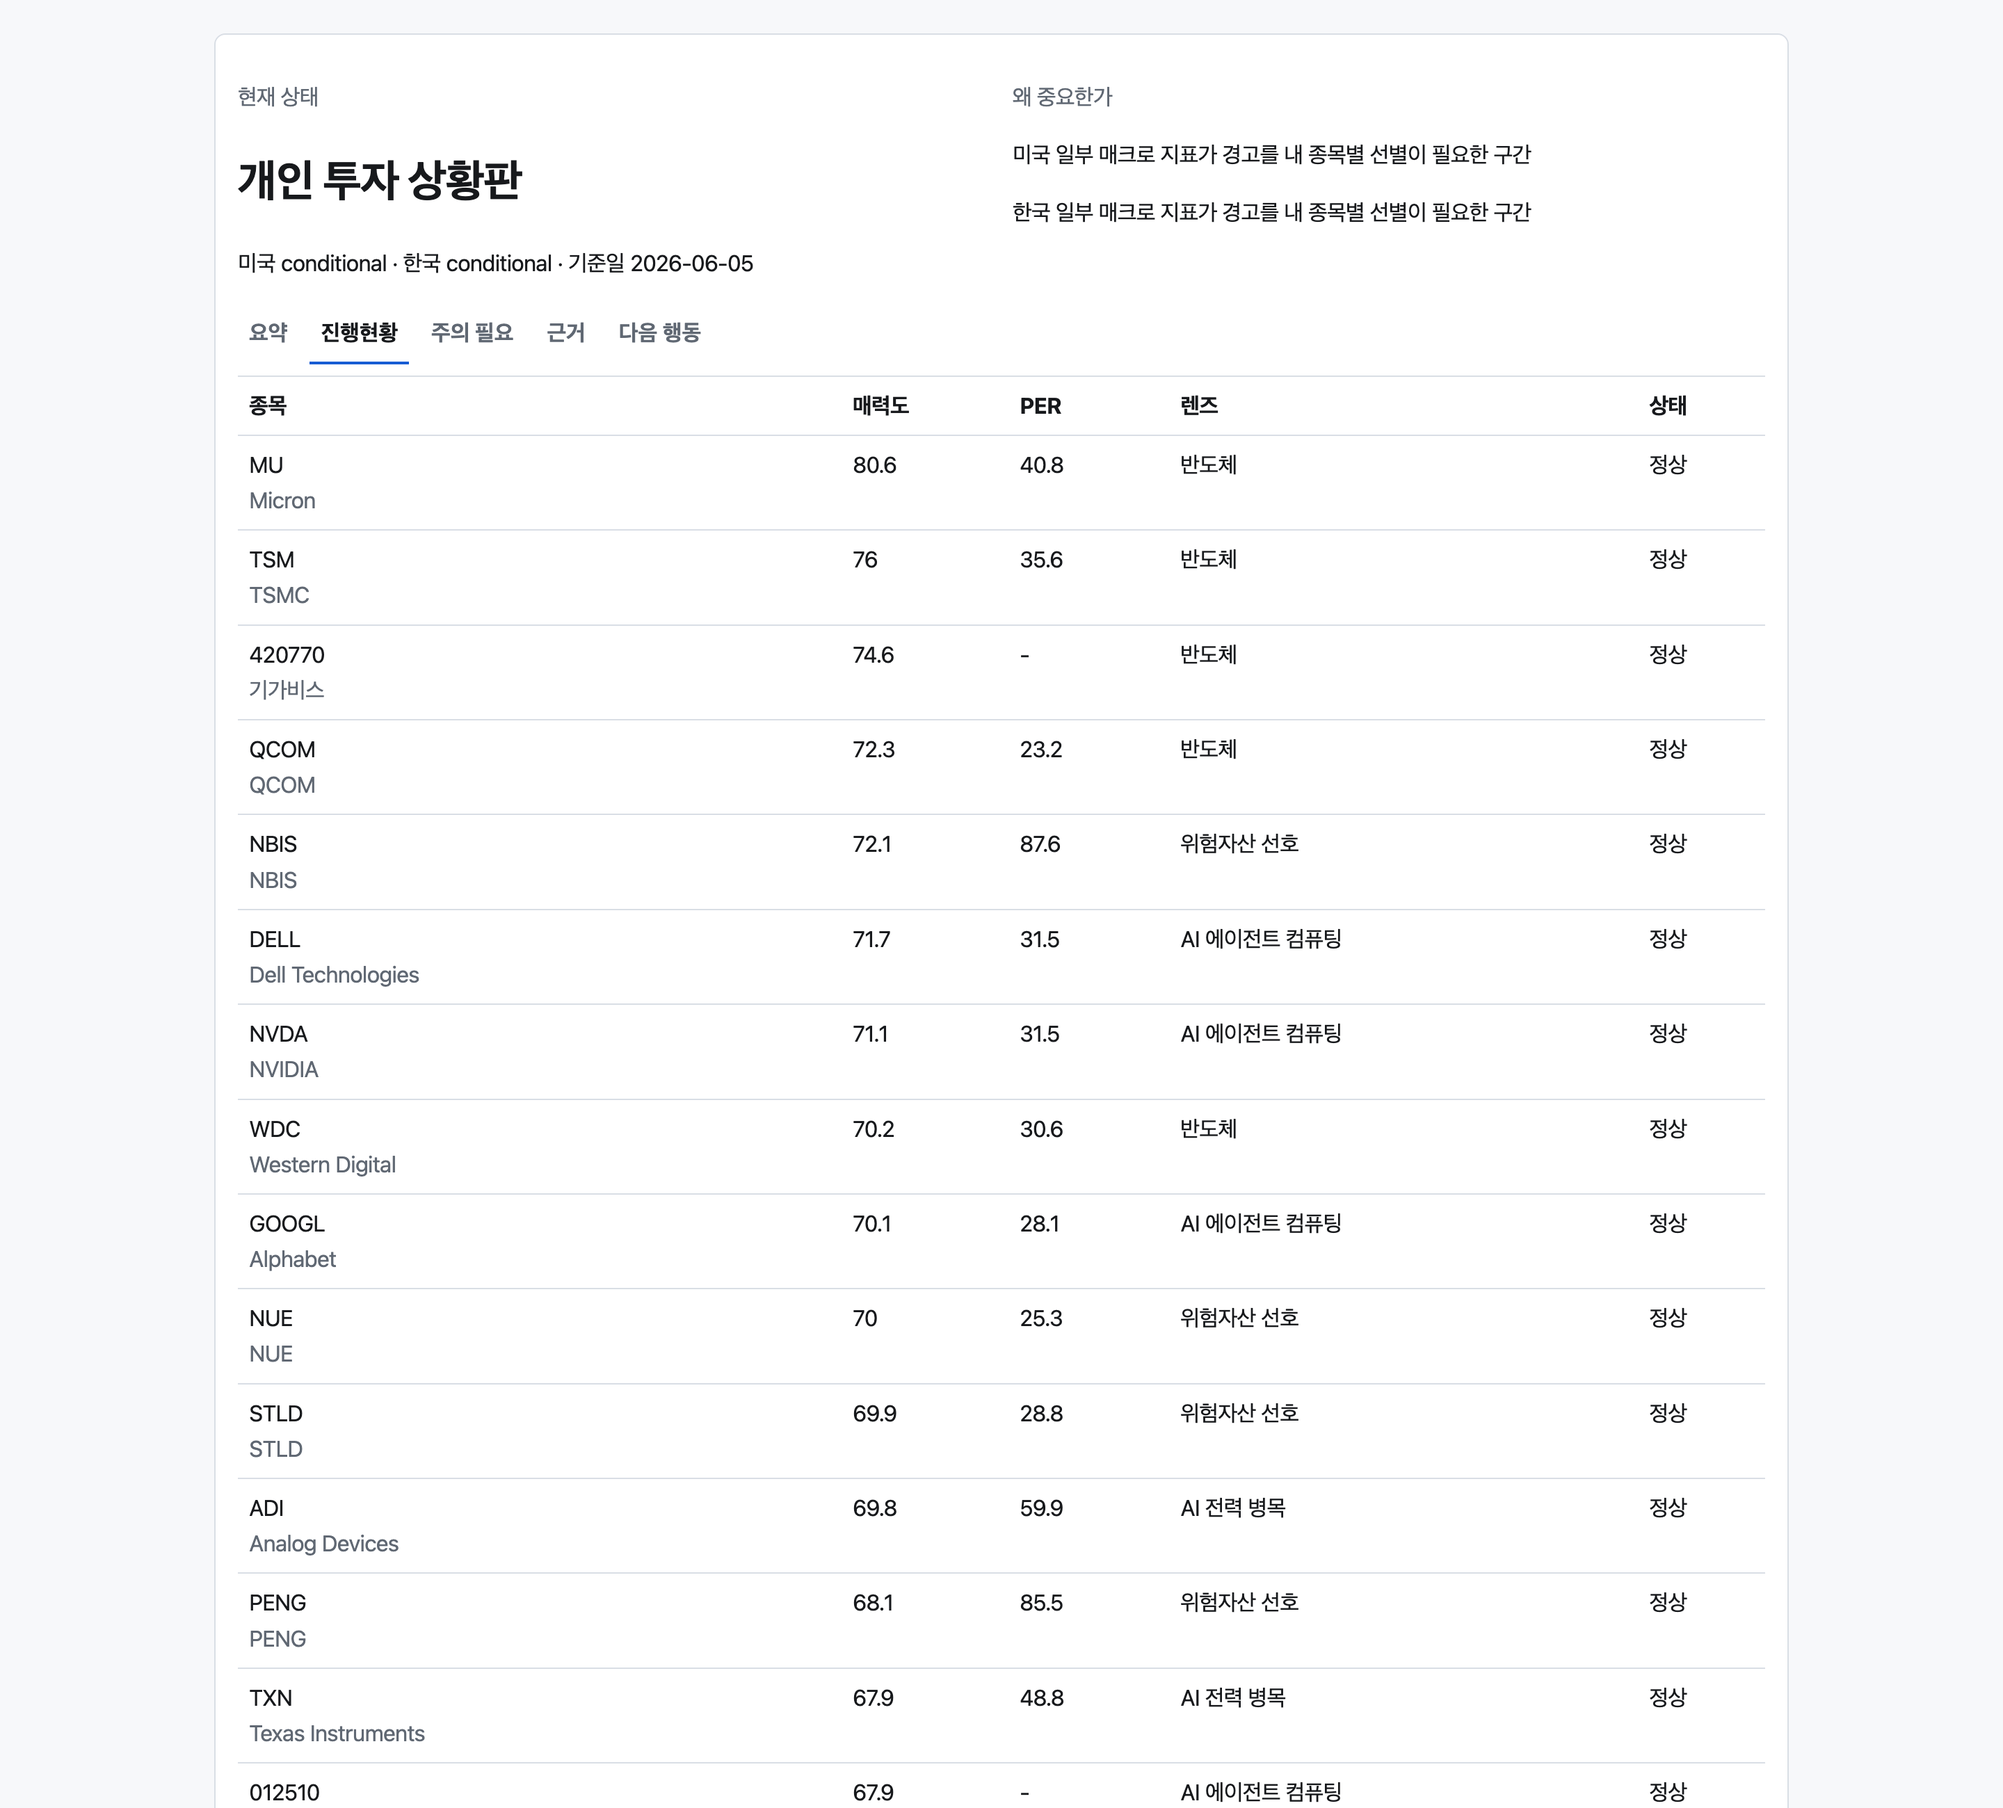
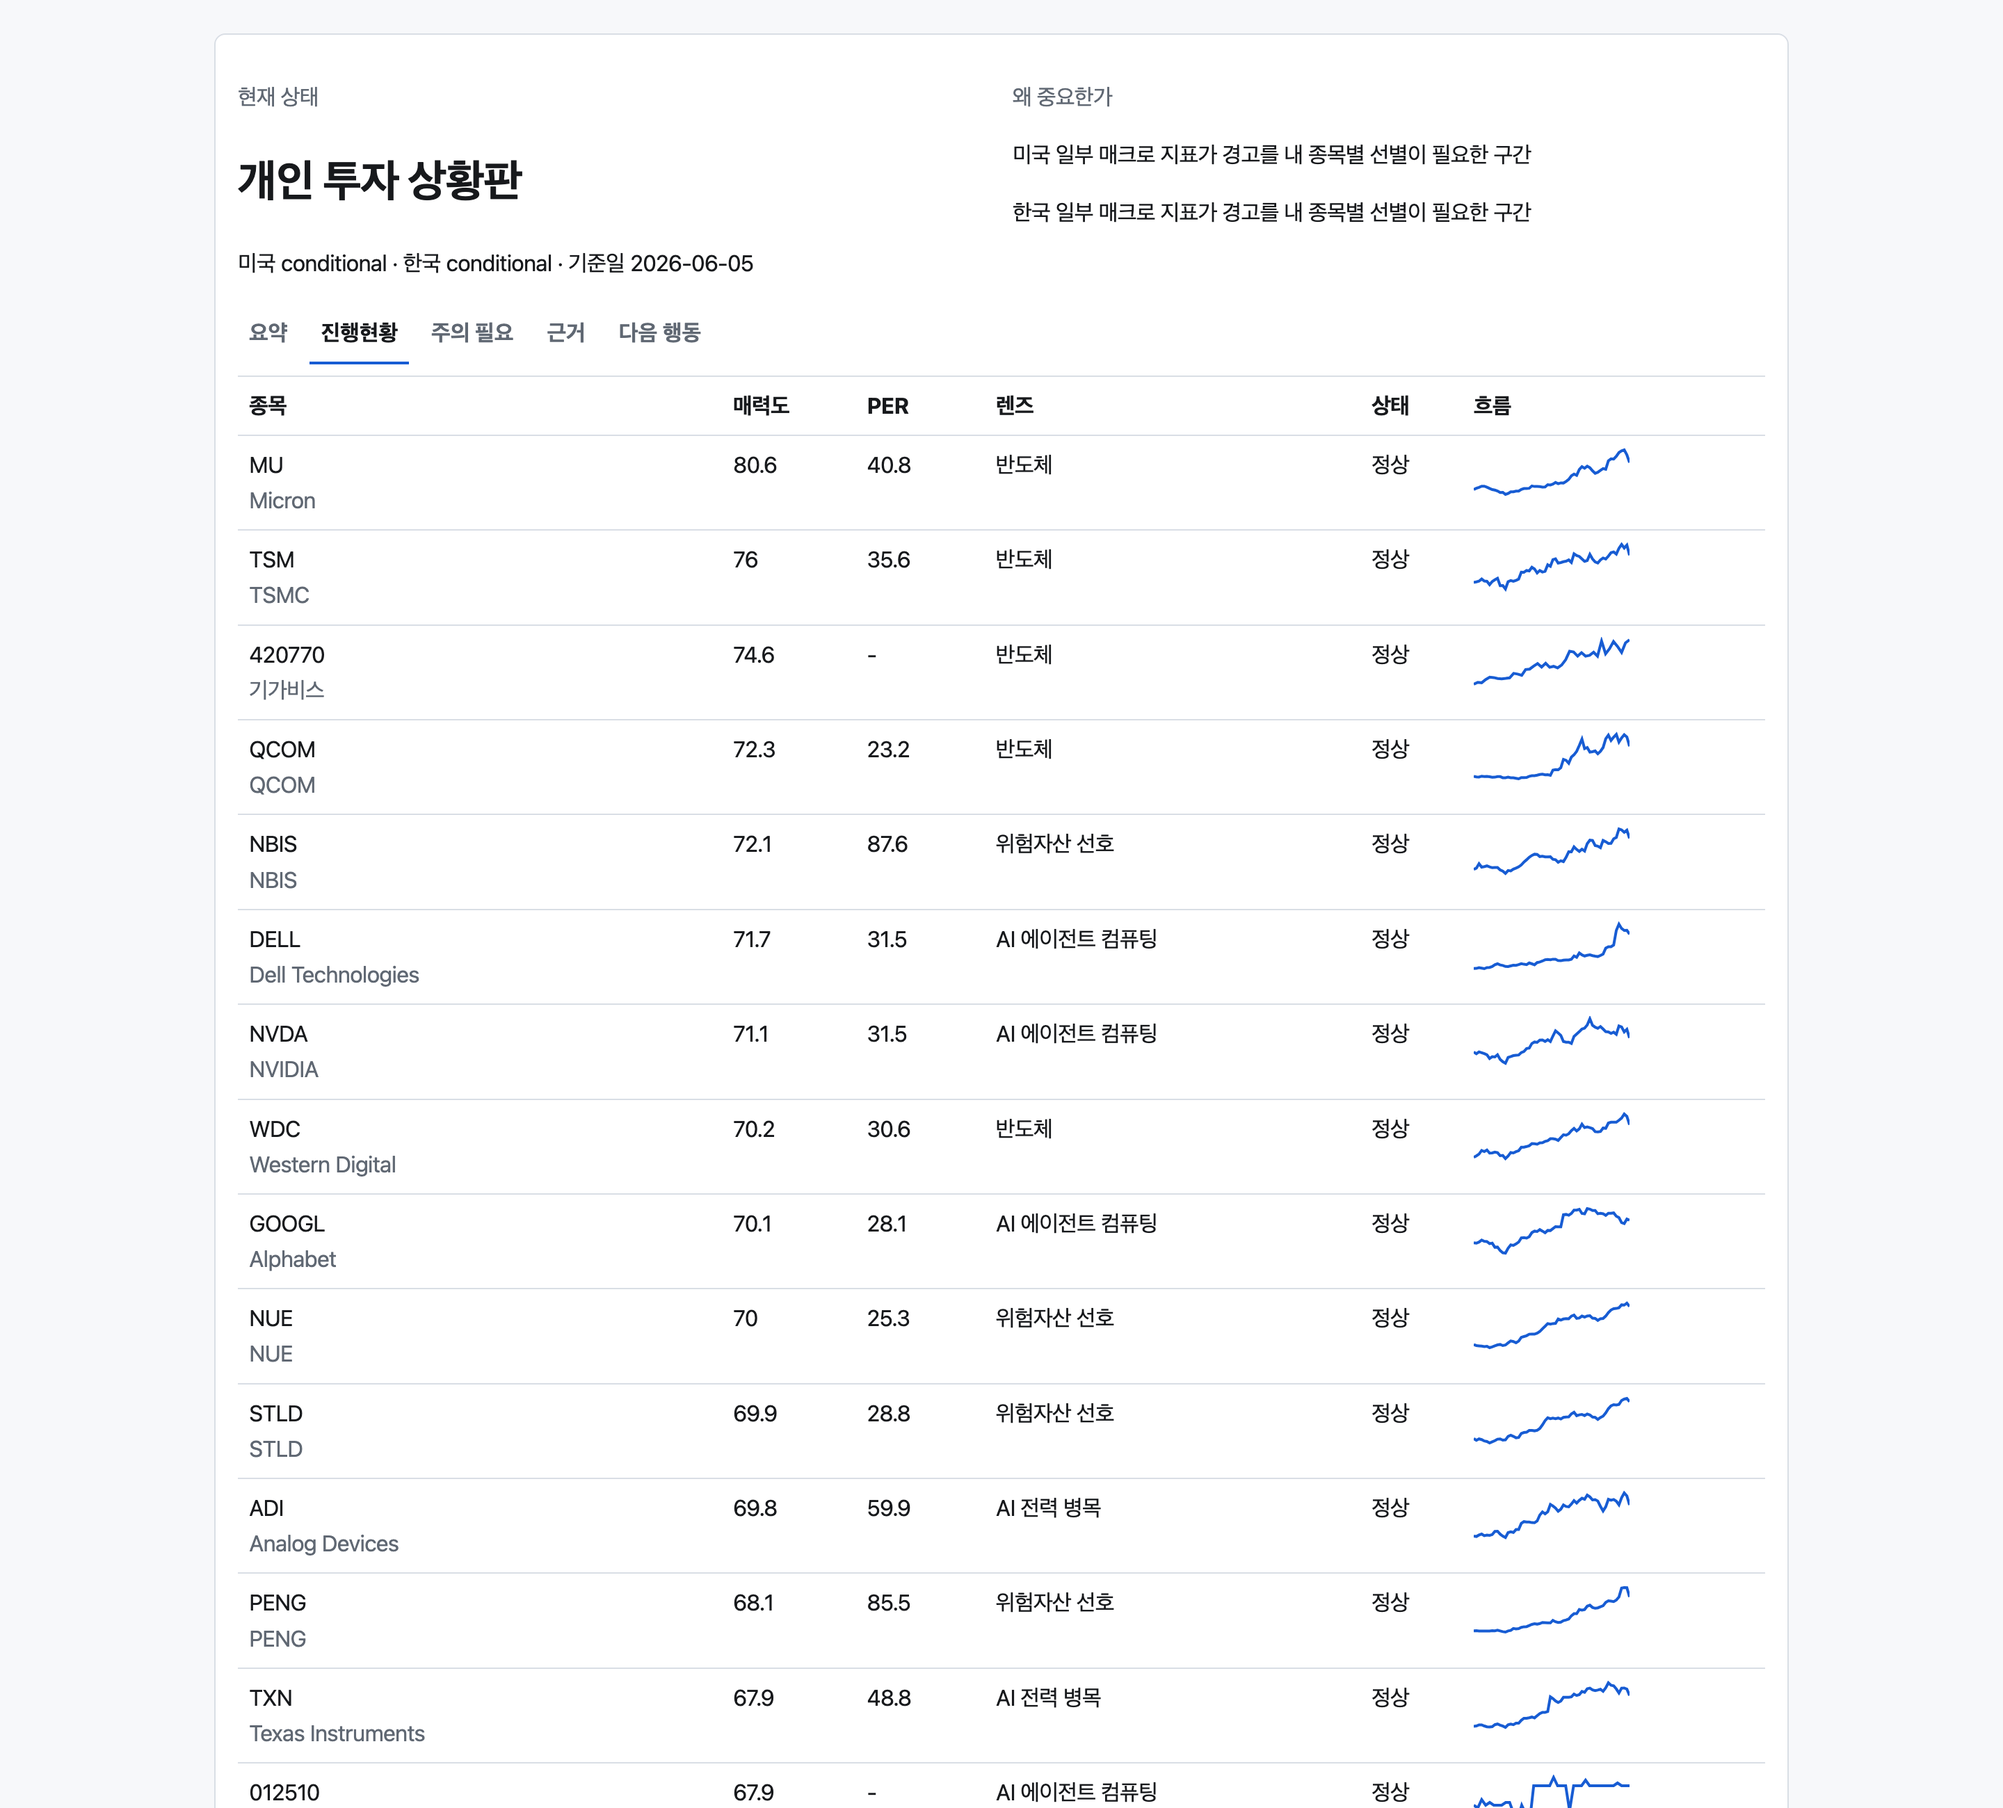
feat(cockpit): per-stock 60일 가격 sparkline carry + 렌더
- RawStock.closes 필드 추가, us/kr provider가 최근 60 종가 carry
- build_snapshot이 stock dict에 closes 저장 → export _price_series가 candidate.price_series 채움(167/174)
- Snapshot Export progressPanel에 인라인 SVG sparkline 컬럼(흐름) 추가 — React Sparkline(info색 라인) 미러, self-contained 유지
- 5탭 스크린샷 재촬영(sparkline 표시)

pytest 342 passed · npm test 10 passed · validate:export OK

diff --git a/web/src/export/snapshotExport.ts b/web/src/export/snapshotExport.ts
@@ -117,6 +117,24 @@ function progressPanel(snapshot: DashboardSnapshot) {
   // React CandidateTable의 isBlocked와 동일 기준(status 또는 independence_status에 BLOCK) — 라벨·정렬 일치.
   const isBlocked = (c: DashboardSnapshot["candidates"][number]) =>
     c.status.toUpperCase().includes("BLOCK") || (c.independence_status ?? "").toUpperCase().includes("BLOCK");
+  // React Sparkline(info색 monotone 라인) 미러 — 인라인 SVG로 self-contained 유지.
+  const spark = (vals?: number[]) => {
+    const v = (vals ?? []).filter((x) => x != null);
+    if (v.length < 2) return "";
+    const w = 112;
+    const h = 36;
+    const pad = 2;
+    const min = Math.min(...v);
+    const span = Math.max(...v) - min || 1;
+    const pts = v
+      .map((value, i) => {
+        const x = (i / (v.length - 1)) * w;
+        const y = pad + (h - 2 * pad) * (1 - (value - min) / span);
+        return `${x.toFixed(1)},${y.toFixed(1)}`;
+      })
+      .join(" ");
+    return `<svg viewBox="0 0 ${w} ${h}" width="${w}" height="${h}" preserveAspectRatio="none" aria-label="가격 흐름"><polyline fill="none" stroke="#175cd3" stroke-width="2" points="${pts}"/></svg>`;
+  };
   const rows = snapshot.candidates
     .slice()
     .sort((a, b) => {
@@ -126,9 +144,9 @@ function progressPanel(snapshot: DashboardSnapshot) {
       return (b.score ?? -1) - (a.score ?? -1);
     })
     .slice(0, 50)
-    .map((candidate) => `<tr data-toggle="#detail-${escapeHtml(candidate.ticker)}"><td>${escapeHtml(candidate.ticker)}<br><span class="muted">${escapeHtml(candidate.company)}</span></td><td>${escapeHtml(candidate.score ?? "-")}</td><td>${escapeHtml(candidate.pe ?? "-")}</td><td>${escapeHtml(candidate.strongest_lens || candidate.linked_lenses[0]?.name || "-")}</td><td>${isBlocked(candidate) ? "차단" : "정상"}</td></tr><tr id="detail-${escapeHtml(candidate.ticker)}" class="detail-row" hidden><td colspan="5">${escapeHtml(candidate.thesis)}</td></tr>`)
+    .map((candidate) => `<tr data-toggle="#detail-${escapeHtml(candidate.ticker)}"><td>${escapeHtml(candidate.ticker)}<br><span class="muted">${escapeHtml(candidate.company)}</span></td><td>${escapeHtml(candidate.score ?? "-")}</td><td>${escapeHtml(candidate.pe ?? "-")}</td><td>${escapeHtml(candidate.strongest_lens || candidate.linked_lenses[0]?.name || "-")}</td><td>${isBlocked(candidate) ? "차단" : "정상"}</td><td>${spark(candidate.price_series)}</td></tr><tr id="detail-${escapeHtml(candidate.ticker)}" class="detail-row" hidden><td colspan="6">${escapeHtml(candidate.thesis)}</td></tr>`)
     .join("");
-  return `<table><thead><tr><th>종목</th><th>매력도</th><th>PER</th><th>렌즈</th><th>상태</th></tr></thead><tbody>${rows}</tbody></table>`;
+  return `<table><thead><tr><th>종목</th><th>매력도</th><th>PER</th><th>렌즈</th><th>상태</th><th>흐름</th></tr></thead><tbody>${rows}</tbody></table>`;
 }
 
 function attentionPanel(snapshot: DashboardSnapshot) {

diff --git a/dashboard/snapshot.py b/dashboard/snapshot.py
@@ -93,6 +93,7 @@ def build_snapshot(
             "peer_group": group,
             "short_ratio": _round(raw.short_ratio, 2),
             "net_flow_signal": _round(raw.net_flow_signal, 2),
+            "closes": [round(float(c), 2) for c in (raw.closes or [])],
             "independence_status": str(independence_read.get("status") or ""),
             "auditor": independence_read.get("auditor") or "",
             "independence_reason": str(independence_read.get("reason") or ""),

diff --git a/dashboard/providers/us.py b/dashboard/providers/us.py
@@ -55,6 +55,7 @@ def _apply_info(raw: RawStock, info: dict) -> None:
 def _apply_history(raw: RawStock, closes: list[float], volumes: list[float]) -> None:
     if not closes:
         return
+    raw.closes = [float(c) for c in closes[-60:] if c is not None]
     raw.price = float(closes[-1])
     raw.day_change_pct = day_change_pct(closes)
     raw.return_pct = trailing_return_pct(closes, lookback=21)

diff --git a/dashboard/providers/kr.py b/dashboard/providers/kr.py
@@ -144,6 +144,7 @@ def _apply_price_series(raw: RawStock, technical: dict | None) -> None:
     closes = _safe_ohlcv_closes(raw.ticker)
     if not closes:
         return
+    raw.closes = [float(c) for c in closes[-60:] if c is not None]
     if raw.price is None:
         raw.price = float(closes[-1])
     if raw.day_change_pct is None:

diff --git a/dashboard/providers/base.py b/dashboard/providers/base.py
@@ -43,6 +43,9 @@ class RawStock:
     ma_trend: str | None = None
     volume_ratio: float | None = None
 
+    # recent close series (sparkline) — most-recent last, best-effort
+    closes: list[float] = field(default_factory=list)
+
     as_of: str | None = None
     errors: list[str] = field(default_factory=list)
 
